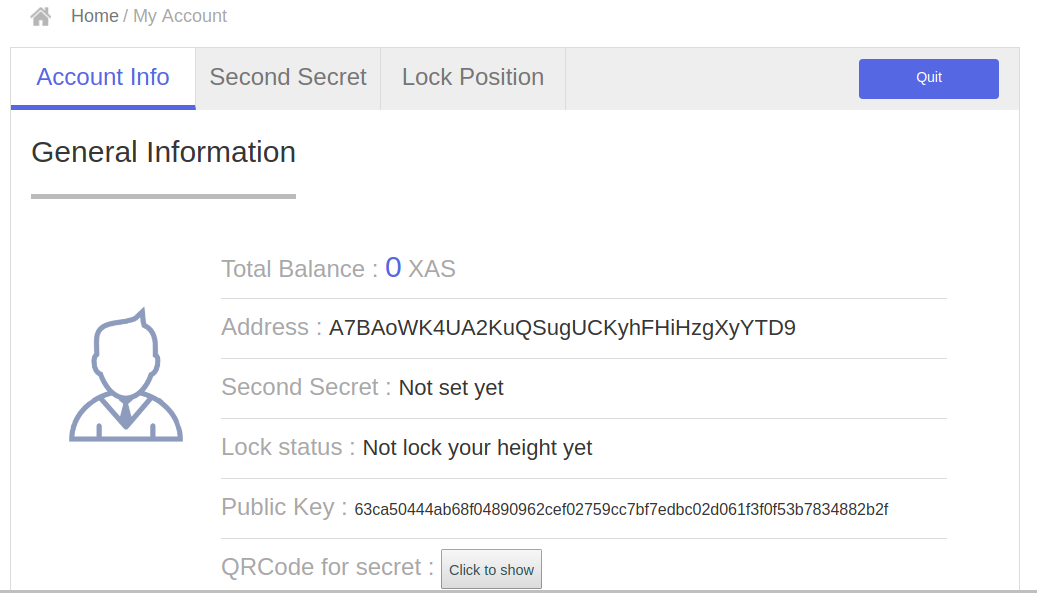
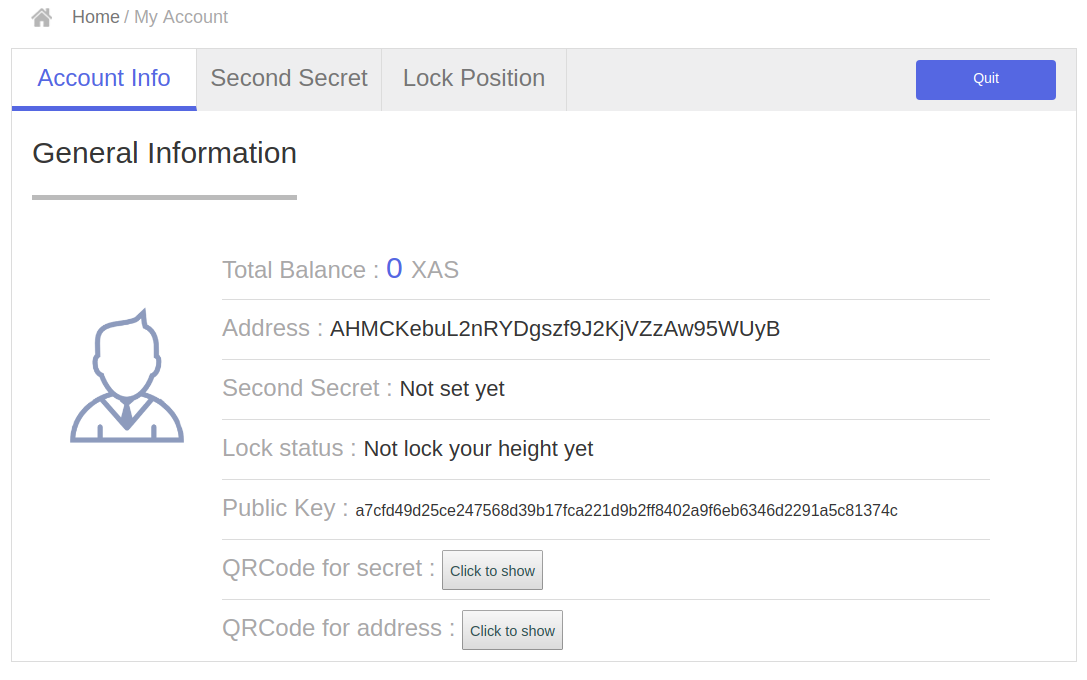
update and split up

diff --git a/create-asset.md b/create-asset.md
@@ -8,42 +8,11 @@ The normal process would be:
 - Wait 10 sec for next block
 - Mint tokens (only available in Chinese language, you can see it on the screen, but not translated yet)
 
-Thanks to @a1300 for the above
-
-## create a new user
-
-Make sure that ASCH is running (`cd asch && node app.js`) now point your browser to http://localhost:4096/#/login and press the "New account" button.
-
-![Step 1/2 Create Master Secret](./images/nextstep.png)
-
-In this example the secret will become `pair join budget leisure rough blouse task receive curve auction habit reform` (write it down somewhere). Now press the "Next Step" button and confirm the secret.
-
-You will find your new accout with an empty balance:
-
-![Empty balance](./images/emptybalance.png)
-
-Find your address under the "My Account" tab on the left side of your screen:
-
-![Your address](./images/address.png)
-
-As you see our new XAS address is `A7BAoWK4UA2KuQSugUCKyhFHiHzgXyYTD9`.
-
-### Give the new user some XAS
-Use the genesis account to send the new user some XAS. The genesis account, see also [Dapp Development Tutorial 1: Asch Dapp Hello World](https://github.com/AschPlatform/asch-docs/blob/master/dapp/hello_world/en.md);
-
-**Genesis Account**
-```
-    address: 14762548536863074694
-    secret: someone manual strong movie roof episode eight spatial brown soldier soup motor
-    publicKey: 8065a105c785a08757727fded3a06f8f312e73ad40f1f3502e0232ea42e67efd
-```
-
-Point your browser to http://localhost:4096/#/login again. Login with the genesis account now. Then Click the "Transfer" tab on the left side of your screen. Now send 1000 XAS to `A7BAoWK4UA2KuQSugUCKyhFHiHzgXyYTD9`.
-
-![Pay](./images/pay.png)
+## Preparation
+Make sure that ASCH is running (`cd asch && node app.js`) and you've created a (new) account. See also [Create a new account by using the (default) front-end](./create-account). Notice that one account can only register as publisher once.
 
 ## Create a publisher
-Login with your new account now. You'll see that the balance contains 1000 XAS now. Chose the "Asset" tab from the left side of the screen now. Then navigate to "Registered Publisher" tab and fill in the form like that shown in the figure below:
+Point yout browser to http://localhost:4096/#/login and login with your account. Make sure your account contains enough XAS. Registering a publisher requires 100 XAS and registering an asset requires 500 XAS again. Choose the "Asset" tab from the left side of the screen now. Then navigate to "Registered Publisher" tab and fill in the form like that shown in the frgure below:
 
 ![new publisher](./images/newpublisher.png)
 

diff --git a/create-account.md b/create-account.md
@@ -1,0 +1,38 @@
+# Create a new account by using the (default) front-end
+
+Make sure that ASCH is running (`cd asch && node app.js`) now point your browser to http://localhost:4096/#/login and press the "New account" button.
+
+![Step 1/2 Create Master Secret](./images/nextstep.png)
+
+In this example the secret will become `sentence weasel match weather apple onion release keen lens deal fruit matrix` (write it down somewhere). Now press the "Next Step" button and confirm the secret.
+
+You will find your new accout with an empty balance:
+
+![Empty balance](./images/emptybalance.png)
+
+Find your address under the "My Account" tab on the left side of your screen:
+
+![Your address](./images/address.png)
+
+As you see our new XAS address is `AHMCKebuL2nRYDgszf9J2KjVZzAw95WUyB`.
+
+### Give the new user some XAS
+Use the genesis account to send the new user some XAS. The genesis account, see also [Dapp Development Tutorial 1: Asch Dapp Hello World](https://github.com/AschPlatform/asch-docs/blob/master/dapp/hello_world/en.md);
+
+**Genesis Account**
+```
+    address: 14762548536863074694
+    secret: someone manual strong movie roof episode eight spatial brown soldier soup motor
+    publicKey: 8065a105c785a08757727fded3a06f8f312e73ad40f1f3502e0232ea42e67efd
+```
+
+Point your browser to http://localhost:4096/#/login again. Login with the genesis account now. Then Click the "Transfer" tab on the left side of your screen. Now send 1000 XAS to `AHMCKebuL2nRYDgszf9J2KjVZzAw95WUyB`.
+
+![Pay](./images/pay.png)
+
+Login with your new account now. Notice that one account can only register as publisher once. You'll see that the balance contains 1000 XAS now. 
+
+# Create a new acount with asch-cli
+Alternatively you can also use [asch-cli]() to [create a new account](https://github.com/AschPlatform/asch-docs/blob/master/dapp/hello_world/en.md#6-prepare-account-for-dapp-registration).
+
+
